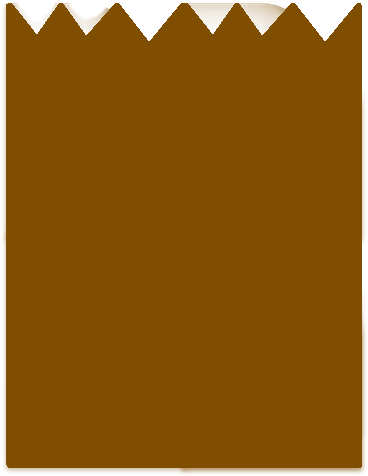
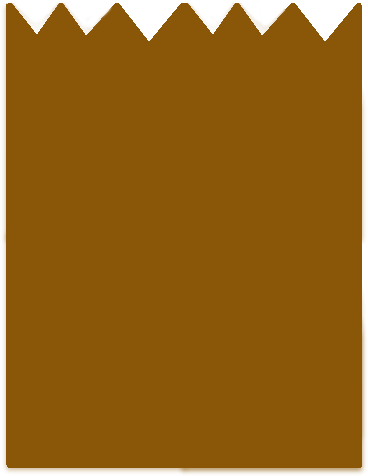
nicer brown bag.  normalize fonts a bit.  not sure what 'outline: none' did.  perhaps it needs to be there for specific browsers?

diff --git a/client-side/style.css b/client-side/style.css
@@ -1,8 +1,11 @@
+/* GLOBAL SETTINGS (like a Normalize) */
+html {
+	font-family: -apple-system, Helvetica, Arial, sans-serif;
+}
 
-/*////////////////
-// HTML Display //
-////////////////*/
 
+
+/* LOCAL SETTINGS */
 #AccountWindow {
 	height: 100%;
 	width: 100%;
@@ -39,7 +42,8 @@
 	background-image: url("static/brown-bag.png");
 	background-repeat: no-repeat;
 	background-size: 100% 100%;
-	padding-top: 40px;
+	padding-top: 50px;
+	color: white;
 
 	display: flex;
 	align-items: stretch;
@@ -56,15 +60,13 @@
 	padding: 8px 6px;
 	border: none;
 	transition: all .3s;
-	color: #000000;
 	cursor: pointer;
 }
 .AccountTab:not(.tab_selected):hover {
-	color: #DDDDDD;
+	color: black;
 	z-index: 2;
 }
 .AccountTab.tab_selected {
-	color: #000;
 	cursor: default;
 }
 
@@ -79,28 +81,27 @@
 	text-align: left;
 
 	border-radius: 4px;
-	outline: none;
 	width: 200px;
 
-	font-family: "Arial";
 	font-size: 15px;
 	padding: 2px;
 }
-#username {
-
+#LoginWindow > div {
+	font-size: 15px;
+	padding: 2px;
+}
+#username, #password {
+	padding: 1px 6px 0px 6px !important;
+	border: 0px; /* presence of border gets rid of inset thingy */
+	height: 30px;
 }
 #password {
 	margin-bottom: 30px;
 }
-#LoginWindow > div {
-	font-family: "Arial";
-	font-size: 15px;
-	padding: 2px;
-}
 #loginResponse {
 	height: 15px;
 	margin: 5px;
-	color: red;
+	color: #0000ff;
 	font-style: italic;
 }
 #loginButton {
@@ -109,12 +110,10 @@
 
 .button {
 	display: inline-block; /* even if we hide buttons, they should be restored to this */
-	font-family: -apple-system, Verdana, Arial, sans-serif;
 	font-size: 12px;
 	height: 25px;
 	padding-left: 4px;
 	padding-right: 4px;
-	outline: none;
 	border: 2px solid #F4F4F4;
 	border-radius: 4px;
 	background-color: #F4F4F4;
@@ -164,7 +163,6 @@
 	width: 100%;
 	color: #000;
 	text-align: right;
-	font-family: -apple-system, Verdana, Arial, sans-serif;
 	font-size: 16px;
 	font-weight: bold;
 	padding: 10px;
@@ -195,7 +193,6 @@ div#ap_delete_account {
 }
 
 .box_contents {
-	font-family: "Arial";
 	font-size: 15px;
 	display: inline-block;
 	padding: 2px 14px;
@@ -216,7 +213,6 @@ div#ap_delete_account {
 	width: 0px;
 	border-left: 0px;
 	padding: 0px;
-	outline: none;
 	cursor: pointer;
 	font-size: 15px;
 	text-align: center;
@@ -257,12 +253,10 @@ div#ap_delete_account {
 	flex-shrink: 0;
 }
 .ingr_quantity {
-	font-family: "Arial";
 	font-size: 15px;
 	text-align: right;
 	display: inline-block;
 	background-color: #F99;
-	outline: none;
 	width: 0px;
 	padding: 2px 0px;
 	border-width: 0px;
@@ -322,10 +316,8 @@ div#ap_delete_account {
 	background-color: #FF9999;
 	border: 2px solid #FF9999;
 	border-radius: 4px;
-	outline: none;
 	width: 150px;
 
-	font-family: "Arial";
 	font-size: 15px;
 
 	margin: 2px 0px;
@@ -387,8 +379,6 @@ div#ap_delete_account {
 	background-color: #F99;
 	border: 4px solid #F99;
 	-webkit-border-radius: 4px; /* no idea why the browsers need this!  Modern browsers should do fine with border-radius */
-	outline: none;
-	font-family: "Arial";
 	font-size: 15px;
 	overflow: auto;
 	resize: none;
@@ -415,6 +405,7 @@ div#ap_delete_account {
 }
 
 .SearchTab {
+	font-family: "Times New Roman", Times, serif;
 	font-weight: bold;
 	text-align: center;
 	padding: 8px 6px;
@@ -473,7 +464,6 @@ div#ap_delete_account {
 #mealSearch {
 	display: block;
 	border: none;
-	outline: none;
 	padding: 4px;
 	border-radius: 4px;
 }
@@ -496,7 +486,6 @@ div#ap_delete_account {
 #ingrSearch {
 	display: block;
 	border: none;
-	outline: none;
 	padding: 4px;
 	border-radius: 4px;
 }
@@ -525,7 +514,6 @@ div#ap_delete_account {
 	width: 18px;
 	background-color: #DDDDDD;
 	color: #000000;
-	outline: none;
 	text-align: center;
 	font-weight: bold;
 }
@@ -573,7 +561,6 @@ div#ap_delete_account {
 	align-self: stretch;
 	line-height: 200%;
 	background-color: #1626FF;
-	font-family: "Arial";
 	color: #EEF;
 	text-align: center;
 }
